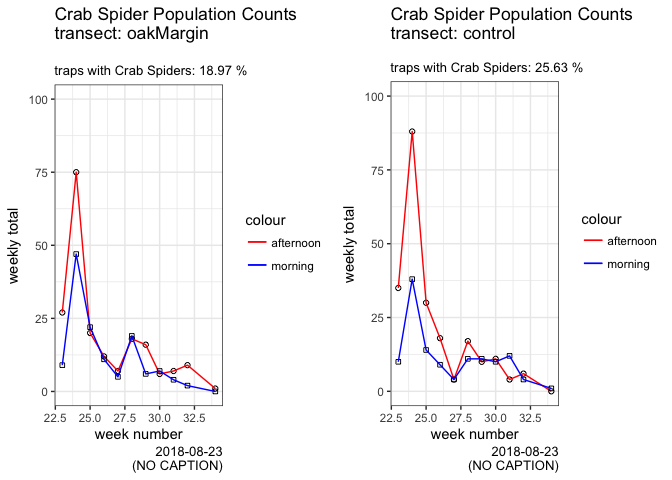
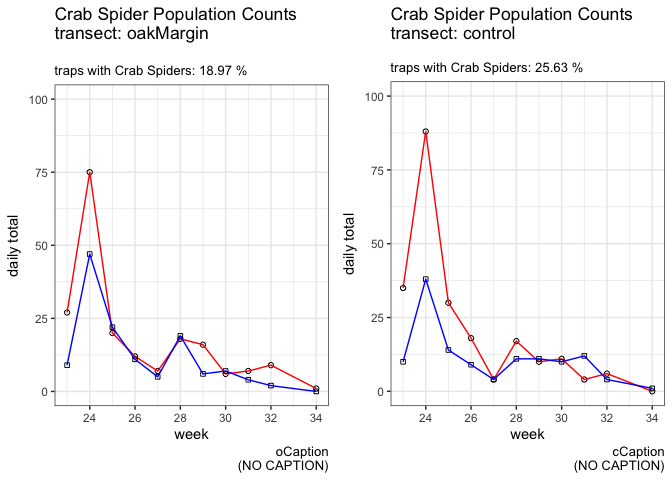
plotSpeciesTrendV2

diff --git a/ampelos.md b/ampelos.md
@@ -202,7 +202,9 @@ does the crab spider population appear to change over time? Is there a differenc
 ``` r
 # pass variables to dyplr pipes
 # https://stackoverflow.com/questions/27975124/pass-arguments-to-dplyr-functions
-plotSpeciesTrend(data=bugs.df, bugs=quo(Thomisidae..crab.spider.), speciesText="Crab Spider", where="control", when="pm", caption=Sys.Date())
+#plotSpeciesTrend(data=bugs.df, bugs=quo(Thomisidae..crab.spider.), #speciesText="Crab Spider", where="control", when="pm", #caption=Sys.Date())
+
+plotSpeciesTrendV2(data=bugs.df, bugs=quo(Thomisidae..crab.spider.), speciesText="Crab Spider", where="control", when="pm", caption=Sys.Date())
 ```
 
 <img src="ampelos_files/figure-markdown_github/unnamed-chunk-11-1.png" width="100%" /><img src="ampelos_files/figure-markdown_github/unnamed-chunk-11-2.png" width="100%" />
